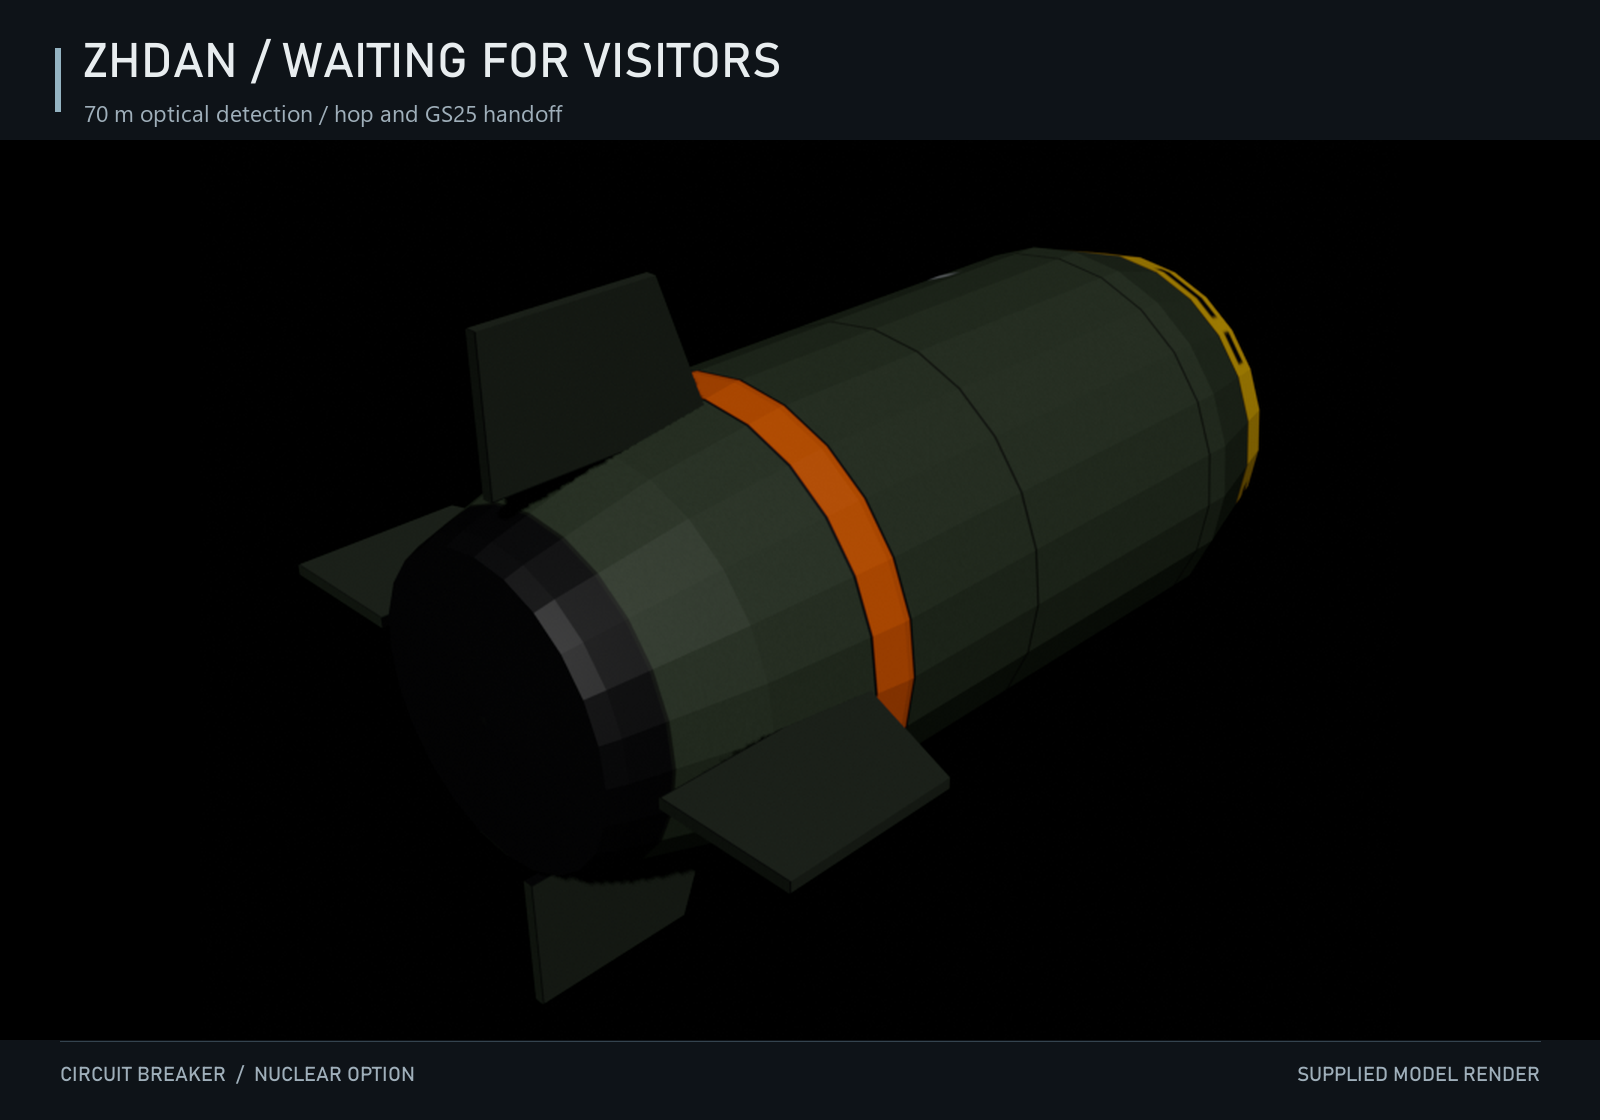
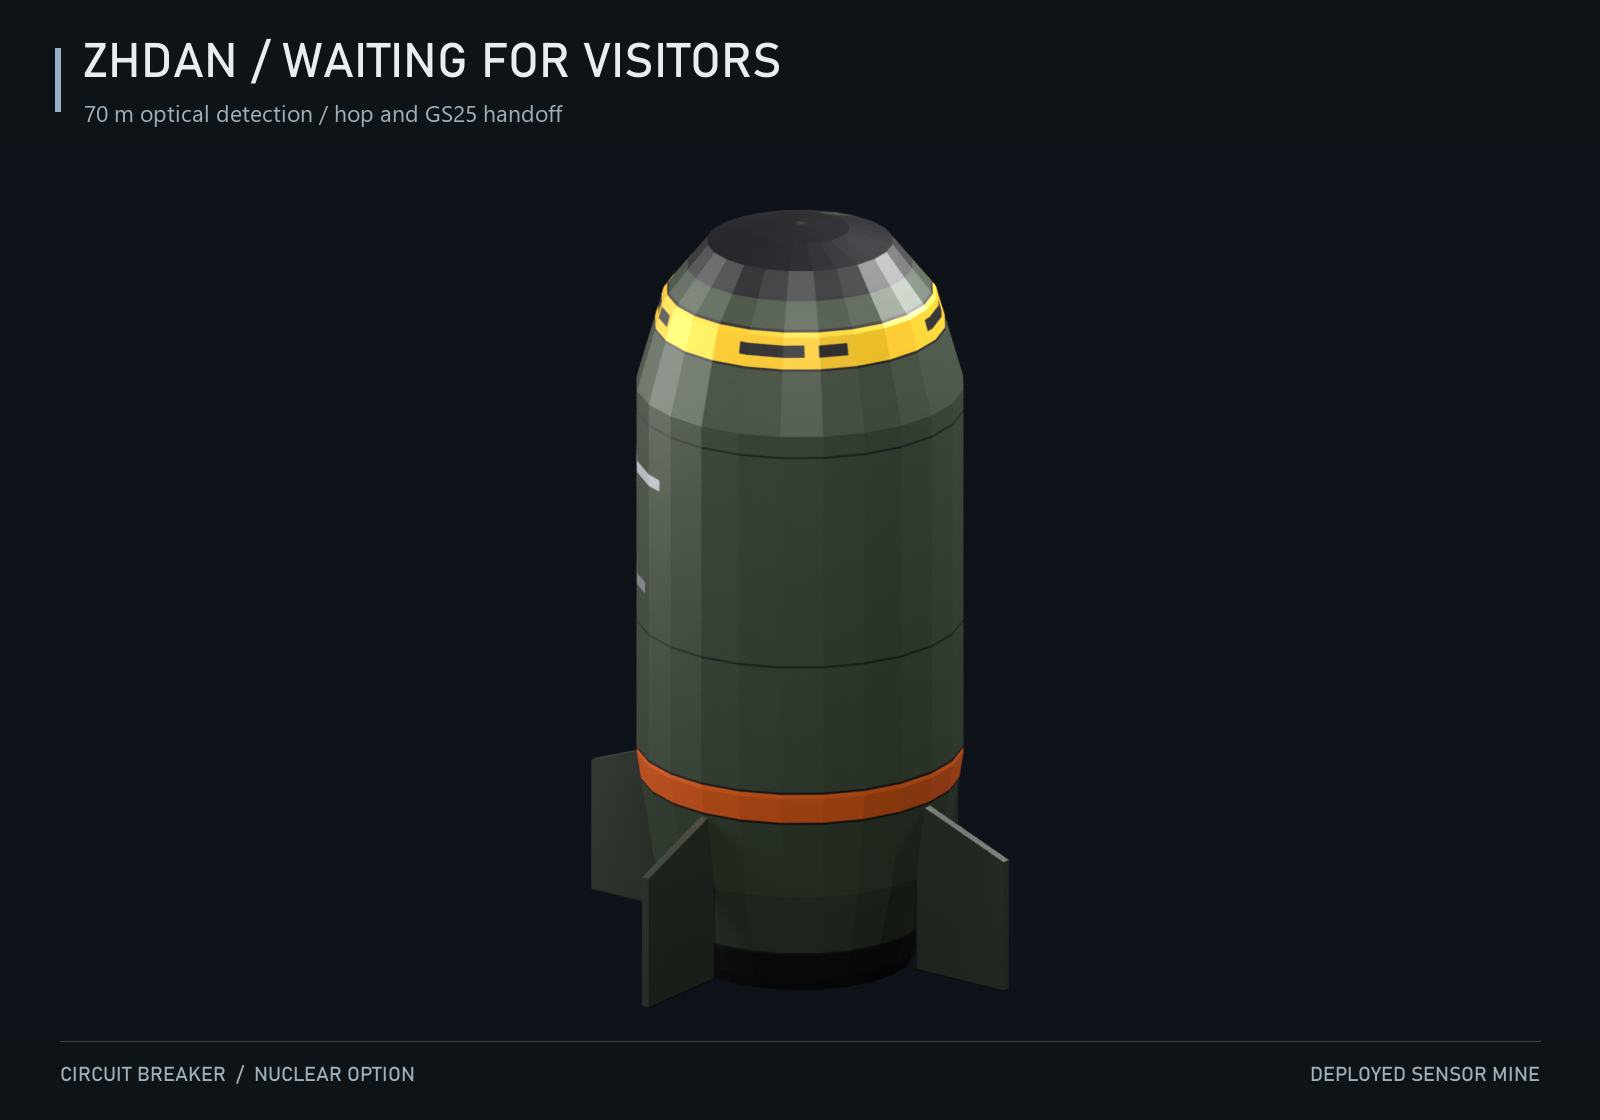
Render upright Zhdan mine on the gallery background

diff --git a/Tools~/RenderZhdan.py b/Tools~/RenderZhdan.py
@@ -1,0 +1,45 @@
+"""Render the supplied Blender mine in its deployed, vertical pose without saving the blend."""
+import bpy, math
+from pathlib import Path
+from mathutils import Vector
+
+root=Path(__file__).resolve().parent.parent
+bpy.ops.wm.open_mainfile(filepath='F:/NCMod/Iron Gate/Zhdan_Mine.blend')
+scene=bpy.context.scene
+scene.frame_set(15)
+body=bpy.data.objects['Zhdan_Mine_Container']
+body.rotation_euler=(math.pi/2,0,0)
+bpy.context.view_layer.update()
+points=[obj.matrix_world @ Vector(corner) for obj in scene.objects if obj.type=='MESH' for corner in obj.bound_box]
+low=Vector(tuple(min(p[i] for p in points) for i in range(3)))
+high=Vector(tuple(max(p[i] for p in points) for i in range(3)))
+center=(low+high)/2
+for obj in list(scene.objects):
+    if obj.type in {'CAMERA','LIGHT'}: bpy.data.objects.remove(obj,do_unlink=True)
+
+camera_data=bpy.data.cameras.new('GalleryCamera')
+camera=bpy.data.objects.new('GalleryCamera',camera_data)
+scene.collection.objects.link(camera)
+camera.location=center+Vector((.6,-.8,.35))
+camera.rotation_euler=(center-camera.location).to_track_quat('-Z','Y').to_euler()
+camera_data.type='ORTHO'
+camera_data.ortho_scale=max((high-low).z*1.85,(high-low).length*1.5)
+scene.camera=camera
+for name,offset,power,size in [('Key',(.35,-.5,.55),7,.4),('Fill',(-.4,-.2,.15),3,.5),('Rim',(.2,.4,.4),6,.3)]:
+    light_data=bpy.data.lights.new(name,'AREA');light_data.energy=power;light_data.shape='DISK';light_data.size=size
+    light=bpy.data.objects.new(name,light_data);scene.collection.objects.link(light)
+    light.location=center+Vector(offset);light.rotation_euler=(center-light.location).to_track_quat('-Z','Y').to_euler()
+world=bpy.data.worlds.new('GalleryCharcoal')
+world.use_nodes=True
+world.node_tree.nodes['Background'].inputs['Color'].default_value=(.005,.008,.012,1)
+world.node_tree.nodes['Background'].inputs['Strength'].default_value=.8
+scene.world=world
+scene.render.engine='CYCLES';scene.cycles.device='CPU';scene.cycles.samples=32;scene.cycles.use_denoising=True
+scene.render.resolution_x=1600;scene.render.resolution_y=900;scene.render.resolution_percentage=100
+scene.render.film_transparent=False
+scene.view_settings.view_transform='Standard'
+scene.view_settings.look='None'
+scene.render.image_settings.file_format='PNG'
+scene.render.filepath=str(root/'Validation~'/'Gallery'/'zhdan-mine.png')
+bpy.ops.render.render(write_still=True)
+print('ZHDAN_GALLERY_RENDER_OK')

diff --git a/Tools~/ComposeGallery.py b/Tools~/ComposeGallery.py
@@ -13,7 +13,7 @@ small_font = ImageFont.truetype('C:/Windows/Fonts/segoeui.ttf', 23)
 label_font = ImageFont.truetype('C:/Windows/Fonts/bahnschrift.ttf', 20)
 items = [
     ('lawn-chair', 'CBU-82S LAWN CHAIR', 'Eight Zhdan sensor mines / vanilla GS25 top attack', 'SENSOR-MINE DISPENSER'),
-    ('zhdan-mine', 'ZHDAN / WAITING FOR VISITORS', '70 m optical detection / hop and GS25 handoff', 'SUPPLIED MODEL RENDER'),
+    ('zhdan-mine', 'ZHDAN / WAITING FOR VISITORS', '70 m optical detection / hop and GS25 handoff', 'DEPLOYED SENSOR MINE'),
     ('blackout', 'AGM-180 BLACKOUT', 'High-power microwave cruise missile', 'DEPLOYED FLIGHT CONFIGURATION'),
     ('locust', 'CBU-82M LOCUST', 'Area-denial mine dispenser', 'CLOSED DISPENSER'),
     ('locust-mine', 'LOCUST SUBMUNITION', '7 kg HE mine / eight per dispenser', 'DEPLOYED FINS'),

diff --git a/README.md b/README.md
@@ -8,7 +8,7 @@ This repository contains code, build scripts, tests, text documentation and rend
 
 ## Weapon gallery
 
-Actual current Unity models, rendered with their in-game materials.
+Actual weapon models rendered with their materials. The dispenser and rack photographs use Unity; the upright Zhdan photograph uses the supplied Blender model.
 
 ![AGM-180 Blackout with deployed wings](docs/gallery/blackout.png)
 
@@ -55,7 +55,7 @@ Locust remains the original unguided 400 kg CCIP dispenser. It opens before depl
 
 ![Zhdan sensor mine model](docs/gallery/zhdan-mine.png)
 
-The dispenser shares the Locust exterior. The Zhdan image is the supplied model render; its in-game drop pose is vertical, stabilizers down.
+The dispenser shares the Locust exterior. The Zhdan mine is rendered upright with deployed stabilizers, matching its in-game waiting pose.
 
 Lawn Chair is a separate selectable dispenser: it sits around waiting for visitors. Think of it as the least relaxing lawn furniture on the battlefield: deploy it near roads or vehicle routes to set up a patient optical ambush. It carries eight Zhdan sensor mines, without replacing Locust. The mines descend vertically with stabilizers down, with fall speed limited to 18 m/s, and rest on the surface normal. They arm four seconds after touchdown and scan every 0.75 seconds for enemy GroundVehicle units within 70 m. Aircraft, buildings, allies and unknown factions are excluded. Detection requires both the 70 m sensor radius and a clear ground-level line of sight. Road decks, bridges, terrain and other solid obstacles can hide a vehicle from the mine. Before hopping, the mine checks the upward corridor and the attack path from its predicted apex; blocked corridors leave it waiting.
 

diff --git a/Tools~/RepositoryREADME.md b/Tools~/RepositoryREADME.md
@@ -8,7 +8,7 @@ This repository contains code, build scripts, tests, text documentation and rend
 
 ## Weapon gallery
 
-Actual current Unity models, rendered with their in-game materials.
+Actual weapon models rendered with their materials. The dispenser and rack photographs use Unity; the upright Zhdan photograph uses the supplied Blender model.
 
 ![AGM-180 Blackout with deployed wings](docs/gallery/blackout.png)
 
@@ -55,7 +55,7 @@ Locust remains the original unguided 400 kg CCIP dispenser. It opens before depl
 
 ![Zhdan sensor mine model](docs/gallery/zhdan-mine.png)
 
-The dispenser shares the Locust exterior. The Zhdan image is the supplied model render; its in-game drop pose is vertical, stabilizers down.
+The dispenser shares the Locust exterior. The Zhdan mine is rendered upright with deployed stabilizers, matching its in-game waiting pose.
 
 Lawn Chair is a separate selectable dispenser: it sits around waiting for visitors. Think of it as the least relaxing lawn furniture on the battlefield: deploy it near roads or vehicle routes to set up a patient optical ambush. It carries eight Zhdan sensor mines, without replacing Locust. The mines descend vertically with stabilizers down, with fall speed limited to 18 m/s, and rest on the surface normal. They arm four seconds after touchdown and scan every 0.75 seconds for enemy GroundVehicle units within 70 m. Aircraft, buildings, allies and unknown factions are excluded. Detection requires both the 70 m sensor radius and a clear ground-level line of sight. Road decks, bridges, terrain and other solid obstacles can hide a vehicle from the mine. Before hopping, the mine checks the upward corridor and the attack path from its predicted apex; blocked corridors leave it waiting.
 
